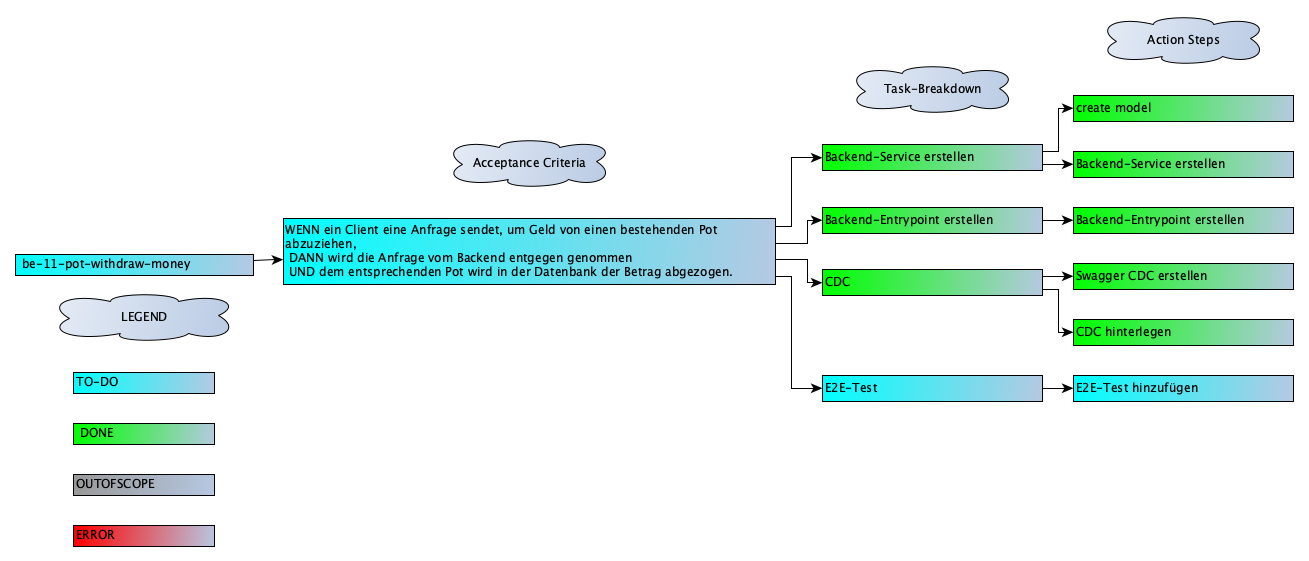
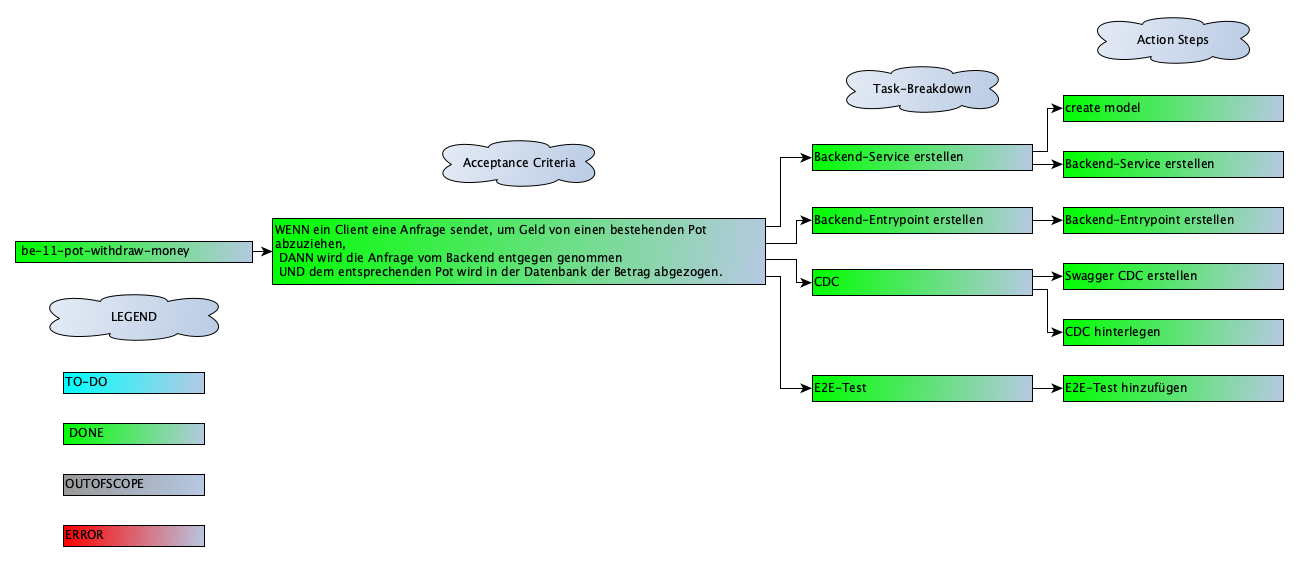
be-11 add e2e-test

diff --git a/backend/test/app.e2e-spec-local.ts b/backend/test/app.e2e-spec-local.ts
@@ -5,6 +5,7 @@ import { AppModule } from '../src/app.module';
 import { APICategoryDTO } from '../src/model/apis/APICategoryDTO';
 import { APIPotNameDTO } from '../src/model/apis/APIPotNameDTO';
 import { APIPotAdditionDTO } from '../src/model/apis/APIPotAdditionDTO';
+import { APIPotSubtractionDTO } from '../src/model/apis/APIPotSubtractionDTO';
 
 describe('AppController (e2e)', () => {
   let app: INestApplication;
@@ -513,6 +514,19 @@ describe('AppController (e2e)', () => {
     return request(app.getHttpServer())
       .put('/pots/addMoneyToPot')
       .send(potAddition)
+      .expect(200)
+      .expect({});
+  });
+
+  it('/pots/withdrawMoneyFromPot (PUT)', async () => {
+    const potSubtraction: APIPotSubtractionDTO = {
+      potName: 'NewMove',
+      amountToSubtract: 10000,
+    };
+
+    return request(app.getHttpServer())
+      .put('/pots/withdrawMoneyFromPot')
+      .send(potSubtraction)
       .expect(200)
       .expect({});
   });

diff --git a/backend/test/app.e2e-spec.ts b/backend/test/app.e2e-spec.ts
@@ -5,6 +5,7 @@ import { AppModule } from '../src/app.module';
 import { APICategoryDTO } from '../src/model/apis/APICategoryDTO';
 import { APIPotAdditionDTO } from '../src/model/apis/APIPotAdditionDTO';
 import { APIPotNameDTO } from '../src/model/apis/APIPotNameDTO';
+import { APIPotSubtractionDTO } from '../src/model/apis/APIPotSubtractionDTO';
 
 describe('AppController (e2e)', () => {
   let app: INestApplication;
@@ -513,6 +514,19 @@ describe('AppController (e2e)', () => {
     return request(app.getHttpServer())
       .put('/pots/addMoneyToPot')
       .send(potAddition)
+      .expect(200)
+      .expect({});
+  });
+
+  it('/pots/withdrawMoneyFromPot (PUT)', async () => {
+    const potSubtraction: APIPotSubtractionDTO = {
+      potName: 'NewMove',
+      amountToSubtract: 10000,
+    };
+
+    return request(app.getHttpServer())
+      .put('/pots/withdrawMoneyFromPot')
+      .send(potSubtraction)
       .expect(200)
       .expect({});
   });
